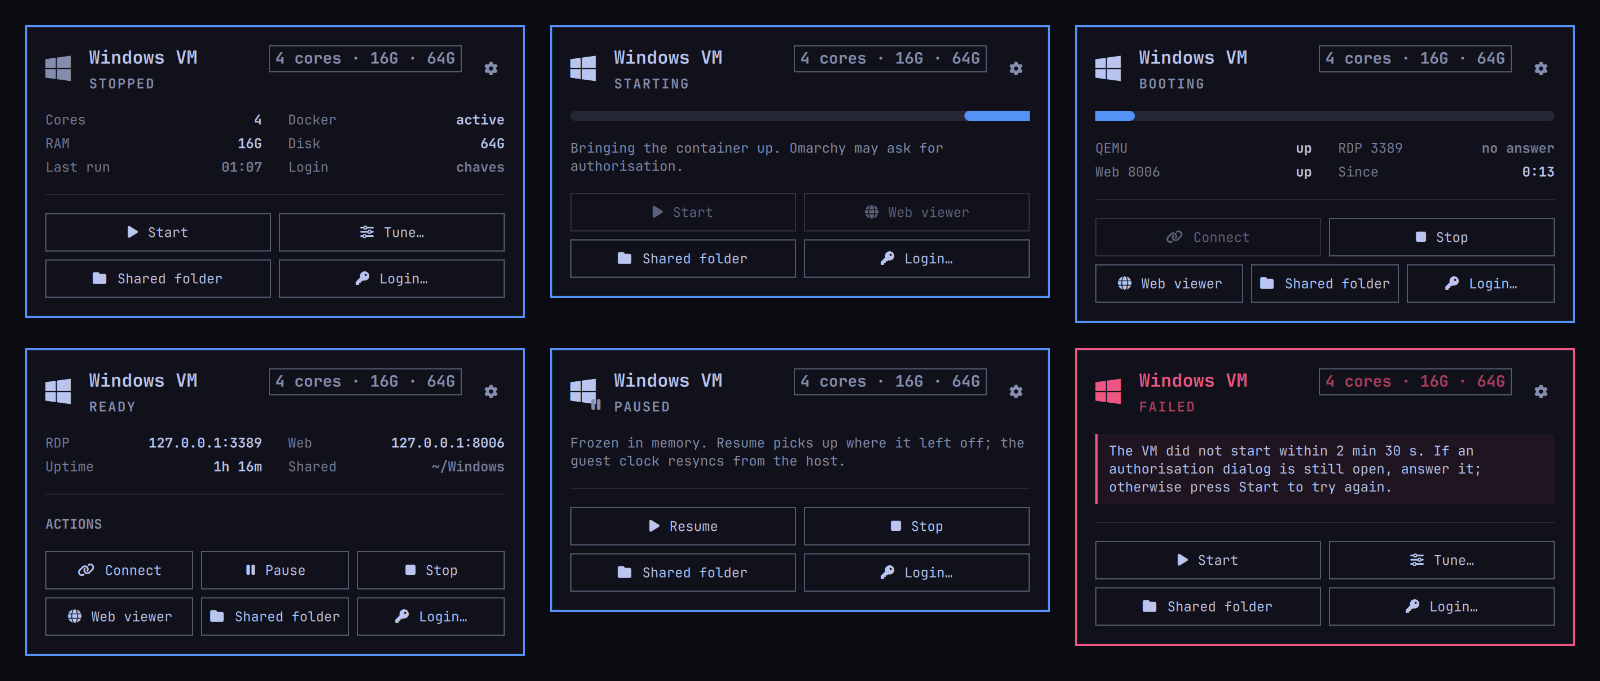
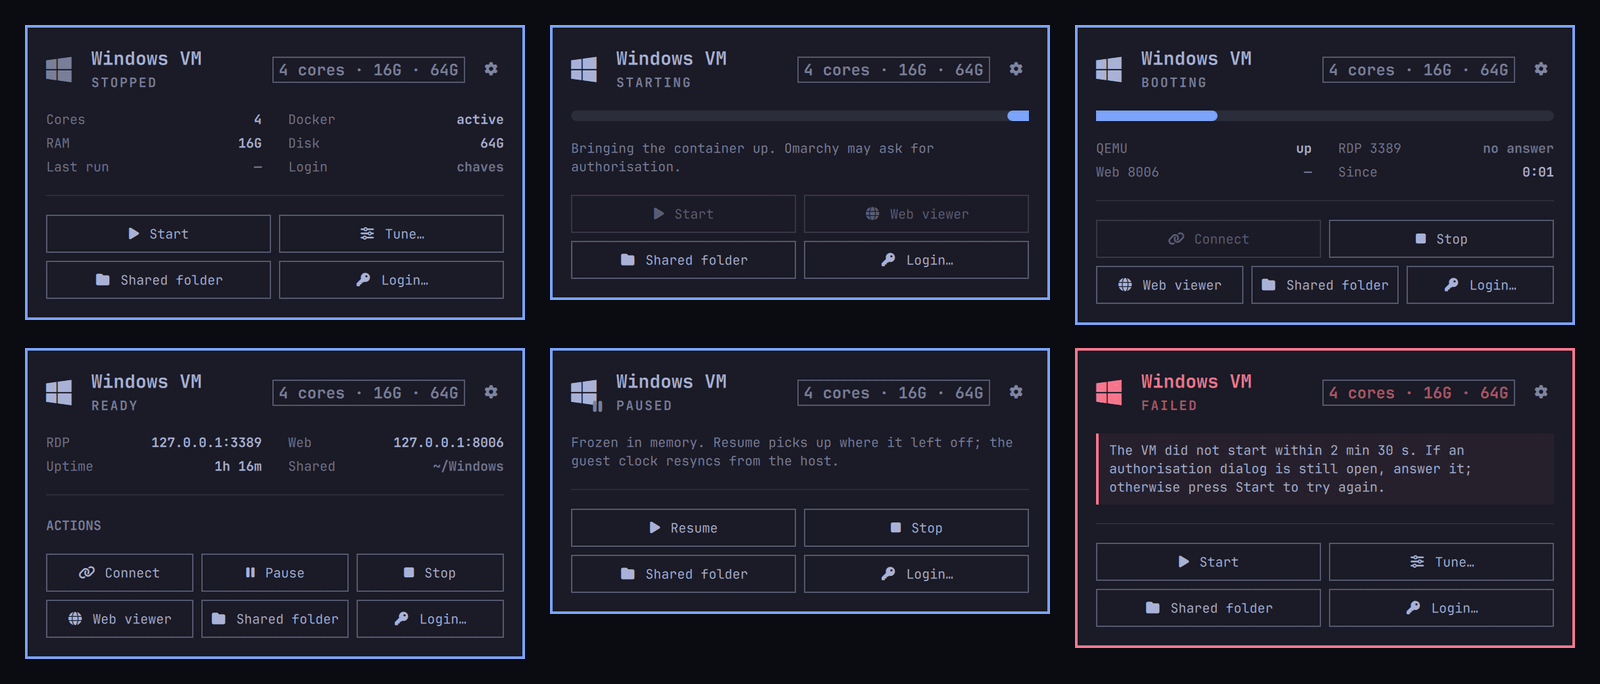
Screenshots: new cover on a real stock-bar desktop, retake the card
The cover is now a capture of Omarchy's stock bar in an omabox at 3.5x
(Tokyo Night, its own wallpaper, under a wide soft fade behind the text), cropped 1.75x on the bar's
right end so the ready card is the size it was, with the headline and a
first line saying it is Omarchy's own Windows 11 (Install › Windows).
The glyph-per-state row is gone.

The card states and the Tune, Login and Settings faces are retaken on
this branch's card: the pill and gear centred together, Back at the top
right, Current tuning on Tune, Omawin 0.2.1 on Settings.

Images and alt text only, no changelog line.

diff --git a/README.md b/README.md
@@ -1,4 +1,4 @@
-<p align="center"><img src="preview.png" alt="Omawin: Windows, from the bar. The ready card hanging off the bar glyph, with Connect, Pause, Stop, Web viewer, Shared folder and Login, and the glyph in each of its six states" width="800"></p>
+<p align="center"><img src="preview.png" alt="Omawin: Windows, from the bar. Omarchy's own Windows 11 VM: the ready card open under its glyph in the stock Omarchy bar, with Connect, Pause, Stop, Web viewer, Shared folder and Login" width="800"></p>
 
 # Omawin
 
